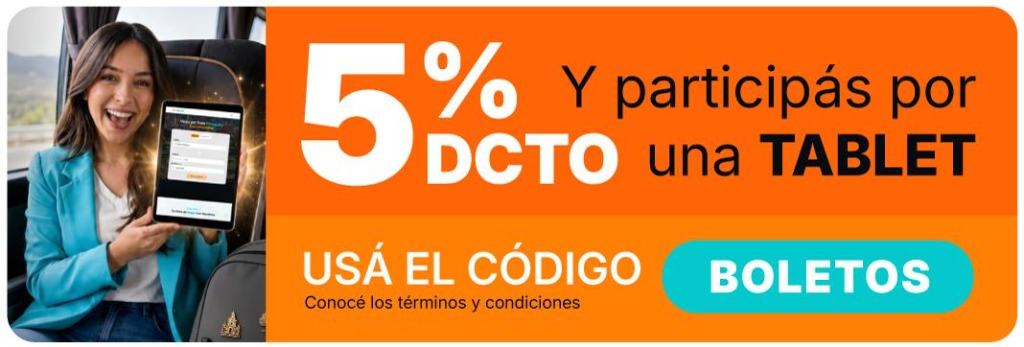
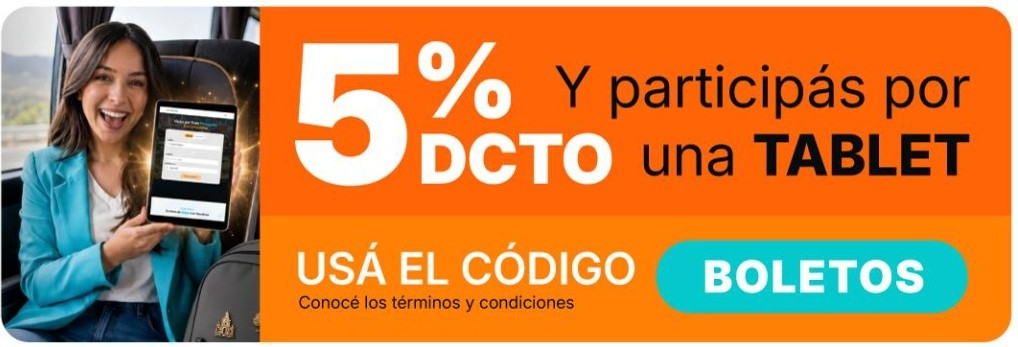
fix: remover porcentaje visible del cargo por servicio en checkout y detalles

Changed region(s): [[0.0, 0.0, 0.9136, 1.0], [0.3045, 0.1153, 0.944, 0.5476], [0.5481, 0.1729, 0.944, 0.3458]]

diff --git a/app/paraguay/booking/checkout/page.tsx b/app/paraguay/booking/checkout/page.tsx
@@ -555,7 +555,7 @@ export default function CheckoutPage() {
                     ) : null}
                     <div className="flex justify-between text-sm gap-2 mt-3">
                       <span className="flex items-center gap-2 text-slate-900 dark:text-white/60 shrink-0">
-                        <span>Cargo por servicio {dynamicServiceCharge !== null ? `(${dynamicServiceCharge}%)` : ""}</span>
+                        <span>Cargo por servicio</span>
                         <TooltipProvider delayDuration={0}>
                           <Tooltip>
                             <TooltipTrigger asChild>

diff --git a/app/paraguay/booking/details/page.tsx b/app/paraguay/booking/details/page.tsx
@@ -418,7 +418,7 @@ export default function DetailsPage() {
                   ) : null}
                   <div className="flex items-center justify-between text-sm mb-3 text-slate-600 dark:text-white/70">
                     <span className="flex items-center gap-2">
-                      <span>Cargo por servicio {dynamicServiceCharge !== null ? `(${dynamicServiceCharge}%)` : ""}</span>
+                      <span>Cargo por servicio</span>
                       <TooltipProvider delayDuration={0}>
                         <Tooltip>
                           <TooltipTrigger asChild>
